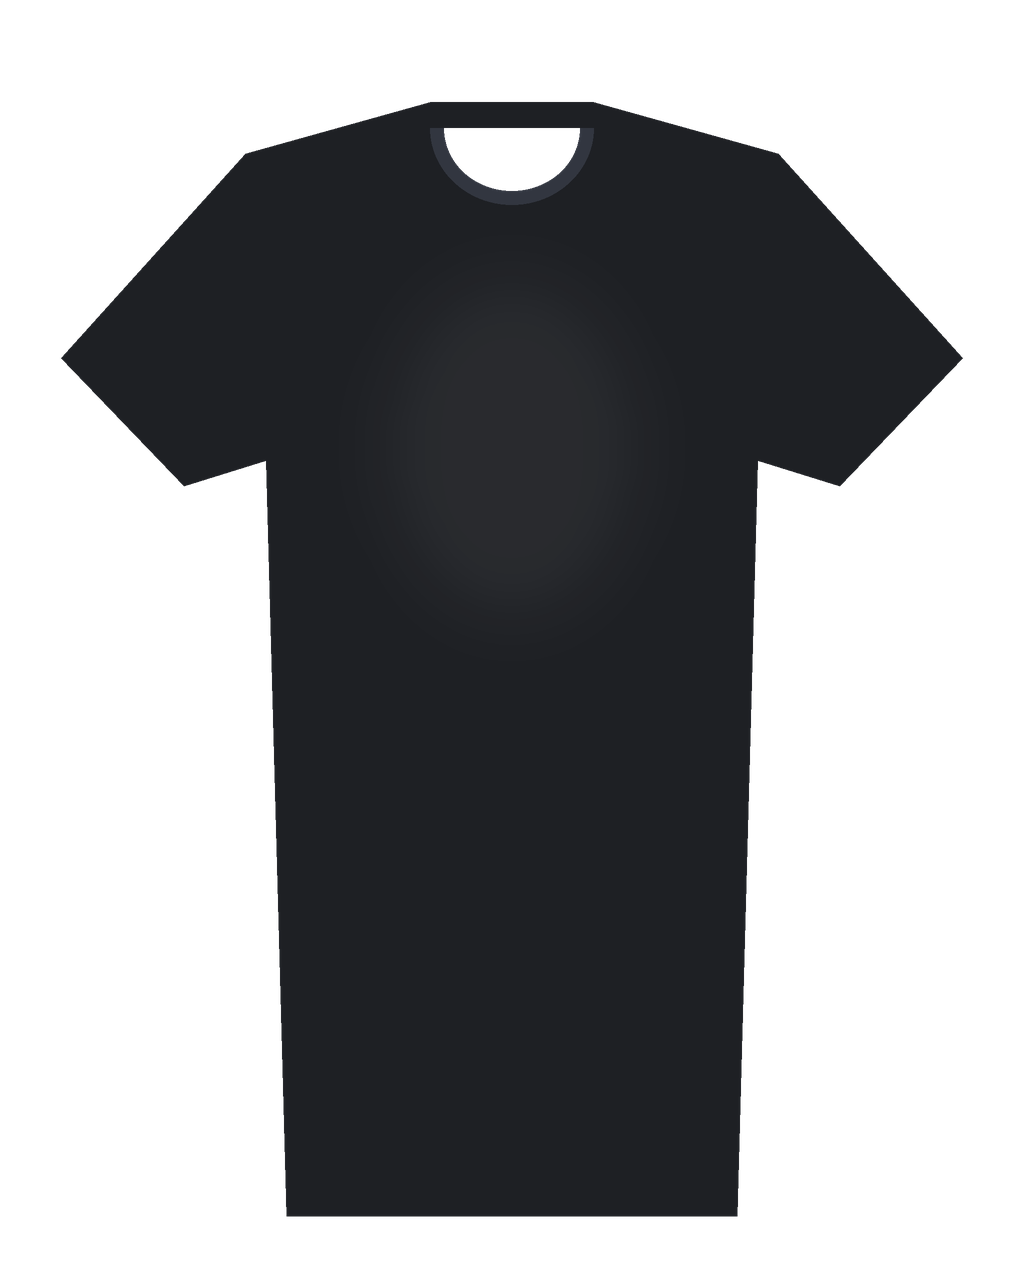
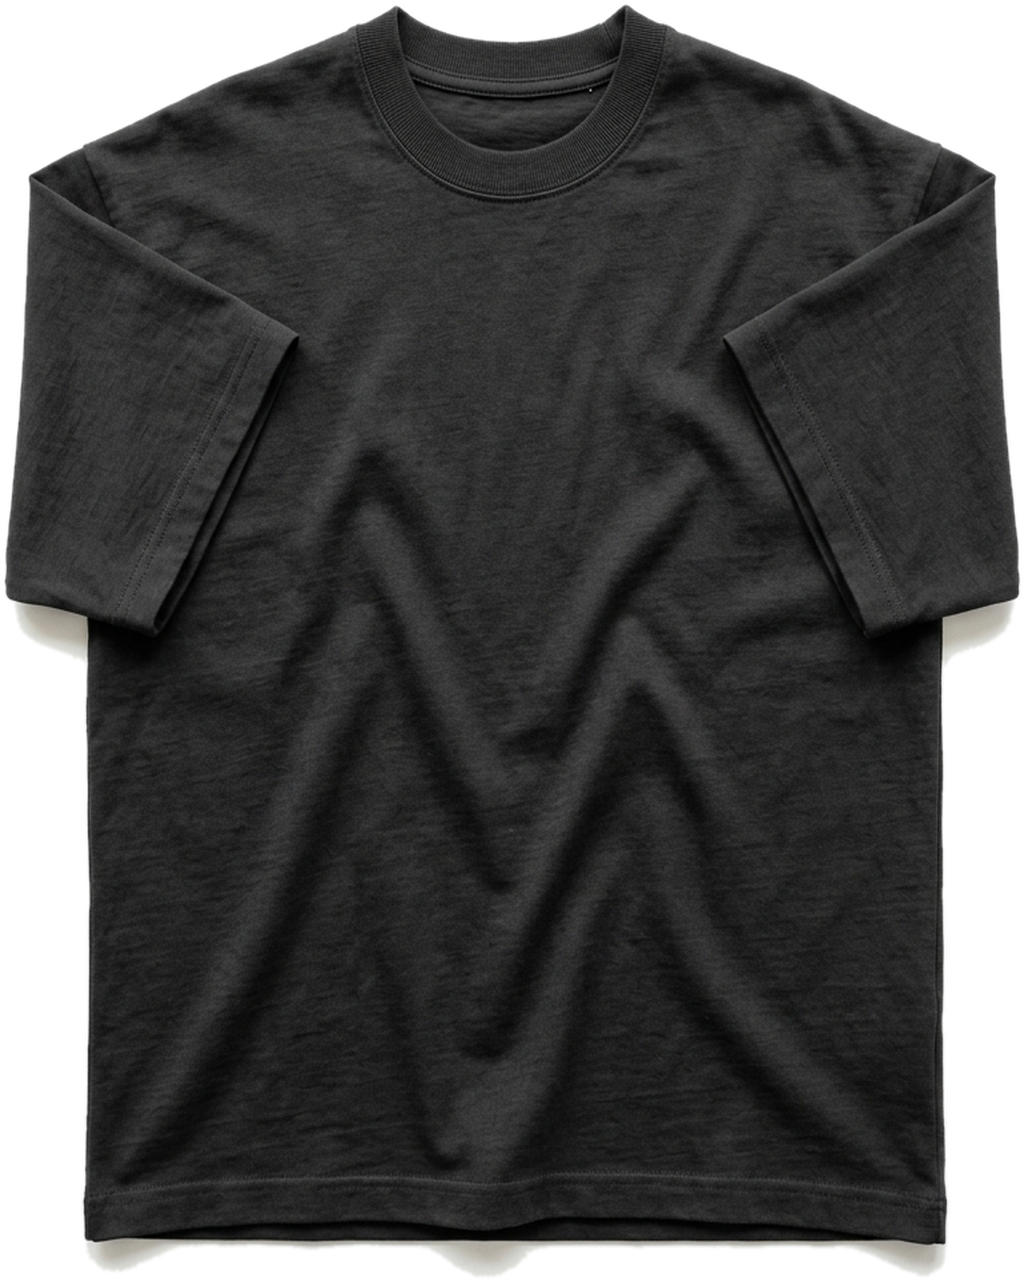
feat(tryon): upgrade to photorealistic 3D textured deformable garment mesh

diff --git a/packages/widget/src/render/three-tryon-renderer.ts b/packages/widget/src/render/three-tryon-renderer.ts
@@ -10,21 +10,22 @@ export class ThreeTryonRenderer {
   private width = 640;
   private height = 480;
 
-  // 3D Garment Group
+  // 3D Garment Mesh & Material
   private garmentGroup: THREE.Group;
-  private torsoMesh: THREE.Mesh | null = null;
-  private shoulderYokeMesh: THREE.Mesh | null = null;
-  private leftSleeveMesh: THREE.Mesh | null = null;
-  private rightSleeveMesh: THREE.Mesh | null = null;
-  private collarMesh: THREE.Mesh | null = null;
+  private garmentMesh: THREE.Mesh | null = null;
+  private garmentGeometry: THREE.PlaneGeometry | null = null;
+  private garmentTexture: THREE.Texture | null = null;
   private fabricMaterial: THREE.MeshStandardMaterial;
+
+  private readonly gridCols = 32;
+  private readonly gridRows = 40;
 
   constructor(canvas: HTMLCanvasElement) {
     this.canvas = canvas;
     this.width = canvas.width || 640;
     this.height = canvas.height || 480;
 
-    // 1. WebGL Renderer with full alpha transparency so camera video underneath shines through
+    // 1. WebGL Renderer with alpha transparency so live camera shines through underneath
     this.renderer = new THREE.WebGLRenderer({
       canvas: this.canvas,
       antialias: true,
@@ -33,7 +34,7 @@ export class ThreeTryonRenderer {
     });
     this.renderer.setSize(this.width, this.height, false);
     this.renderer.setPixelRatio(Math.min(window.devicePixelRatio, 2));
-    this.renderer.setClearColor(0x000000, 0); // 100% transparent background
+    this.renderer.setClearColor(0x000000, 0);
 
     // 2. Pixel-Space Orthographic Camera (center at 0, 0)
     this.scene = new THREE.Scene();
@@ -49,24 +50,34 @@ export class ThreeTryonRenderer {
     this.camera.lookAt(0, 0, 0);
 
     // 3. Editorial Studio Lighting for 3D Fabric Volume & Folds
-    const ambient = new THREE.AmbientLight(0xffffff, 1.2);
+    const ambient = new THREE.AmbientLight(0xffffff, 1.3);
     this.scene.add(ambient);
 
     // Key light: angled from front-right above to highlight chest curvature and collar
-    const keyLight = new THREE.DirectionalLight(0xffffff, 0.85);
-    keyLight.position.set(150, 250, 300);
+    const keyLight = new THREE.DirectionalLight(0xffffff, 0.7);
+    keyLight.position.set(100, 200, 300);
     this.scene.add(keyLight);
 
-    // Fill light: soft fill from left
-    const fillLight = new THREE.DirectionalLight(0xf0ede6, 0.45);
-    fillLight.position.set(-150, -80, 200);
+    // Soft fill from opposite side
+    const fillLight = new THREE.DirectionalLight(0xf5f3ee, 0.4);
+    fillLight.position.set(-100, -50, 200);
     this.scene.add(fillLight);
 
-    // 4. Heavyweight Matte Cotton PBR Material
+    // 4. Load the Photorealistic Editorial Garment Texture
+    const textureLoader = new THREE.TextureLoader();
+    this.garmentTexture = textureLoader.load('/fixtures/sample-tshirt.png');
+    this.garmentTexture.colorSpace = THREE.SRGBColorSpace;
+    this.garmentTexture.generateMipmaps = true;
+    this.garmentTexture.minFilter = THREE.LinearMipmapLinearFilter;
+    this.garmentTexture.magFilter = THREE.LinearFilter;
+
+    // 5. Heavyweight Matte Cotton Material with PBR Lighting
     this.fabricMaterial = new THREE.MeshStandardMaterial({
-      color: 0x232427, // Editorial Deep Charcoal
-      roughness: 0.86,
-      metalness: 0.03,
+      map: this.garmentTexture,
+      transparent: true,
+      alphaTest: 0.05,
+      roughness: 0.88,
+      metalness: 0.02,
       side: THREE.DoubleSide
     });
 
@@ -77,41 +88,10 @@ export class ThreeTryonRenderer {
   }
 
   private build3DGarment(): void {
-    // 1. Main Torso (Chest down to hips): 3D curved elliptical volume
-    const torsoGeom = new THREE.CylinderGeometry(0.5, 0.48, 1.0, 36, 16, false);
-    torsoGeom.scale(1.0, 1.0, 0.58);
-    this.torsoMesh = new THREE.Mesh(torsoGeom, this.fabricMaterial);
-    this.garmentGroup.add(this.torsoMesh);
-
-    // 2. Shoulder Yoke: solid curved volume covering clavicles, shoulder line & trapezius
-    // This ensures NO gaps on top of shoulders, completely concealing underlying shirts/collars
-    const yokeGeom = new THREE.SphereGeometry(0.5, 32, 16);
-    yokeGeom.scale(1.0, 0.35, 0.55);
-    this.shoulderYokeMesh = new THREE.Mesh(yokeGeom, this.fabricMaterial);
-    this.garmentGroup.add(this.shoulderYokeMesh);
-
-    // 3. Left Sleeve: 3D tapered cylinder with volume
-    const sleeveGeomL = new THREE.CylinderGeometry(0.24, 0.19, 1.0, 24, 8, false);
-    sleeveGeomL.scale(1.0, 1.0, 0.75);
-    this.leftSleeveMesh = new THREE.Mesh(sleeveGeomL, this.fabricMaterial);
-    this.garmentGroup.add(this.leftSleeveMesh);
-
-    // 4. Right Sleeve: 3D tapered cylinder with volume
-    const sleeveGeomR = new THREE.CylinderGeometry(0.24, 0.19, 1.0, 24, 8, false);
-    sleeveGeomR.scale(1.0, 1.0, 0.75);
-    this.rightSleeveMesh = new THREE.Mesh(sleeveGeomR, this.fabricMaterial);
-    this.garmentGroup.add(this.rightSleeveMesh);
-
-    // 5. Ribbed Crewneck Collar: raised torus sitting snugly around base of throat
-    const collarGeom = new THREE.TorusGeometry(0.22, 0.042, 16, 40);
-    const collarMat = new THREE.MeshStandardMaterial({
-      color: 0x1f2022,
-      roughness: 0.92,
-      metalness: 0.02
-    });
-    this.collarMesh = new THREE.Mesh(collarGeom, collarMat);
-    this.collarMesh.rotation.x = Math.PI / 2;
-    this.garmentGroup.add(this.collarMesh);
+    // 32 x 40 grid mesh allowing smooth 3D organic skinning across chest, sleeves, and collar
+    this.garmentGeometry = new THREE.PlaneGeometry(1, 1, this.gridCols, this.gridRows);
+    this.garmentMesh = new THREE.Mesh(this.garmentGeometry, this.fabricMaterial);
+    this.garmentGroup.add(this.garmentMesh);
   }
 
   public resize(width: number, height: number): void {
@@ -139,7 +119,7 @@ export class ThreeTryonRenderer {
   }
 
   public update3DPose(rig: TorsoRigState | null, opacity = 1.0): void {
-    if (!rig || opacity <= 0.01) {
+    if (!rig || opacity <= 0.01 || !this.garmentGeometry) {
       this.garmentGroup.visible = false;
       return;
     }
@@ -156,6 +136,7 @@ export class ThreeTryonRenderer {
     const shMid_x = this.toPixelX(rig.shoulderMid[0]);
     const shMid_y = this.toPixelY(rig.shoulderMid[1]);
 
+    // Position collar at base of throat to mask underlying shirts/collars
     const neck_x = this.toPixelX(rig.neckBase[0]);
     const neck_y = this.toPixelY(rig.neckBase[1]);
 
@@ -168,81 +149,132 @@ export class ThreeTryonRenderer {
     const elbR_x = this.toPixelX(rig.elbowRight[0]);
     const elbR_y = this.toPixelY(rig.elbowRight[1]);
 
-    const shWidth = Math.hypot(shR_x - shL_x, shR_y - shL_y);
-    const torsoHeight = Math.hypot(hip_x - shMid_x, hip_y - shMid_y);
+    const shDx = shR_x - shL_x;
+    const shDy = shR_y - shL_y;
+    const shWidth = Math.hypot(shDx, shDy);
 
-    const torsoAngle = Math.atan2(hip_y - shMid_y, hip_x - shMid_x) + Math.PI / 2;
+    const shUnitX = shDx / (shWidth || 1);
+    const shUnitY = shDy / (shWidth || 1);
+
+    // Spine vector (from neck down to hips)
+    const spineDx = hip_x - neck_x;
+    const spineDy = hip_y - neck_y;
+    const spineLen = Math.hypot(spineDx, spineDy);
+    const spineUnitX = spineDx / (spineLen || 1);
+    const spineUnitY = spineDy / (spineLen || 1);
+
+    // Left and right arm vectors (shoulder to elbow)
+    const armL_dx = elbL_x - shL_x;
+    const armL_dy = elbL_y - shL_y;
+    const armL_len = Math.hypot(armL_dx, armL_dy);
+    const armL_unitX = armL_dx / (armL_len || 1);
+    const armL_unitY = armL_dy / (armL_len || 1);
+
+    const armR_dx = elbR_x - shR_x;
+    const armR_dy = elbR_y - shR_y;
+    const armR_len = Math.hypot(armR_dx, armR_dy);
+    const armR_unitX = armR_dx / (armR_len || 1);
+    const armR_unitY = armR_dy / (armR_len || 1);
+
     const yawRad = (rig.estimatedYawDeg * Math.PI) / 180;
+    const cosYaw = Math.cos(yawRad);
+    const sinYaw = Math.sin(yawRad);
 
-    // 1. Torso Mesh: 3D curved elliptical cylinder spanning chest to hips
-    if (this.torsoMesh) {
-      const torsoCenterX = (shMid_x + hip_x) * 0.5;
-      const torsoCenterY = (neck_y + hip_y) * 0.5;
+    const posAttr = this.garmentGeometry.attributes.position;
+    const cols = this.gridCols;
+    const rows = this.gridRows;
 
-      this.torsoMesh.position.set(torsoCenterX, torsoCenterY, 30);
+    // Torso center for 3D yaw pivot
+    const centerX = (shMid_x + hip_x) * 0.5;
+    const centerY = (neck_y + hip_y) * 0.5;
 
-      const tWidth = shWidth * 1.22;
-      const tHeight = Math.max(torsoHeight * 1.28, shWidth * 1.35);
-      const tDepth = shWidth * 0.56;
-      this.torsoMesh.scale.set(tWidth, tHeight, tDepth);
+    // Deform the 3D surface vertices according to the body rig
+    let vIdx = 0;
+    for (let r = 0; r <= rows; r++) {
+      const v = r / rows; // 0 = collar/shoulders, 1 = hem
 
-      this.torsoMesh.rotation.set(0, yawRad, torsoAngle);
+      // Base spine anchor at height fraction v
+      const torsoYLen = Math.max(spineLen * 1.25, shWidth * 1.35);
+      const curSpineX = neck_x + spineUnitX * (v * torsoYLen);
+      const curSpineY = neck_y + spineUnitY * (v * torsoYLen);
+
+      // Torso half-width at this height (editorial boxy cut)
+      const halfWidth = (shWidth * 0.5) * 1.22;
+
+      for (let c = 0; c <= cols; c++) {
+        const u = c / cols; // 0 = left sleeve, 0.5 = center, 1 = right sleeve
+
+        let px: number;
+        let py: number;
+
+        if (u < 0.22) {
+          // --- Left Sleeve ---
+          // Fraction along the sleeve from shoulder seam to cuff
+          const tSleeve = (0.22 - u) / 0.22; // 0 at shoulder, 1 at cuff
+          const sleeveReach = Math.max(armL_len * 0.72, shWidth * 0.55);
+
+          // Position along left arm vector
+          const alongArmX = shL_x + armL_unitX * (tSleeve * sleeveReach);
+          const alongArmY = shL_y + armL_unitY * (tSleeve * sleeveReach);
+
+          // Sleeve thickness perpendicular to arm
+          const sleevePerpX = -armL_unitY;
+          const sleevePerpY = armL_unitX;
+          const sleeveWidth = shWidth * 0.38 * (1.0 - tSleeve * 0.15);
+          const sleeveOffset = (v - 0.25) * sleeveWidth;
+
+          px = alongArmX + sleevePerpX * sleeveOffset;
+          py = alongArmY + sleevePerpY * sleeveOffset;
+        } else if (u > 0.78) {
+          // --- Right Sleeve ---
+          const tSleeve = (u - 0.78) / 0.22; // 0 at shoulder, 1 at cuff
+          const sleeveReach = Math.max(armR_len * 0.72, shWidth * 0.55);
+
+          const alongArmX = shR_x + armR_unitX * (tSleeve * sleeveReach);
+          const alongArmY = shR_y + armR_unitY * (tSleeve * sleeveReach);
+
+          const sleevePerpX = armR_unitY;
+          const sleevePerpY = -armR_unitX;
+          const sleeveWidth = shWidth * 0.38 * (1.0 - tSleeve * 0.15);
+          const sleeveOffset = (v - 0.25) * sleeveWidth;
+
+          px = alongArmX + sleevePerpX * sleeveOffset;
+          py = alongArmY + sleevePerpY * sleeveOffset;
+        } else {
+          // --- Main Torso & Shoulders ---
+          // Normalized horizontal position across torso: -1 (left) to +1 (right)
+          const s = (u - 0.5) / 0.28; // in [-1..1]
+          px = curSpineX + shUnitX * (s * halfWidth);
+          py = curSpineY + shUnitY * (s * halfWidth);
+
+          // Shoulder slope at top row (clavicle line connecting neck to shoulder joints)
+          if (v < 0.2) {
+            const slopeFactor = (0.2 - v) / 0.2;
+            const trapSlope = Math.abs(s) * (shWidth * 0.12) * slopeFactor;
+            px += spineUnitX * trapSlope;
+            py += spineUnitY * trapSlope;
+          }
+        }
+
+        // --- 3D Depth (Z-axis) & Chest Volume Curvature ---
+        // Chest profile curves outward along +Z (peaks around mid-chest, v ~ 0.35)
+        const vChest = Math.sin(Math.min(v * 1.8, 1.0) * Math.PI);
+        // Lateral curve: peaks at center u = 0.5, wraps around ribcage at sides
+        const uCurvature = Math.cos((u - 0.5) * Math.PI);
+        const depthZ = (shWidth * 0.24) * vChest * Math.max(uCurvature, 0);
+
+        // --- 3D Yaw Rotation around Torso Spine Axis ---
+        const relX = px - centerX;
+        const rotatedX = centerX + relX * cosYaw - depthZ * sinYaw;
+        const rotatedZ = relX * sinYaw + depthZ * cosYaw + 40; // in front of camera feed
+
+        posAttr.setXYZ(vIdx, rotatedX, py, rotatedZ);
+        vIdx++;
+      }
     }
 
-    // 2. Shoulder Yoke: sits right across the clavicles/trapezius to cover underlying collar & shirts
-    if (this.shoulderYokeMesh) {
-      const yokeX = (shMid_x + neck_x) * 0.5;
-      const yokeY = (shMid_y + neck_y) * 0.5;
-
-      this.shoulderYokeMesh.position.set(yokeX, yokeY, 35);
-      const yokeWidth = shWidth * 1.32;
-      const yokeHeight = shWidth * 0.42;
-      const yokeDepth = shWidth * 0.58;
-      this.shoulderYokeMesh.scale.set(yokeWidth, yokeHeight, yokeDepth);
-      this.shoulderYokeMesh.rotation.set(0, yawRad, torsoAngle);
-    }
-
-    // 3. Crewneck Collar: sits high around the suprasternal notch & base of throat
-    if (this.collarMesh) {
-      this.collarMesh.position.set(neck_x, neck_y, 45);
-      const collarRadius = shWidth * 0.72;
-      this.collarMesh.scale.set(collarRadius, collarRadius * 0.68, collarRadius);
-      this.collarMesh.rotation.set(Math.PI / 2 - 0.12, yawRad, torsoAngle);
-    }
-
-    // 4. Left Sleeve: connects screen-left shoulder to elbow
-    if (this.leftSleeveMesh) {
-      const armDx = elbL_x - shL_x;
-      const armDy = elbL_y - shL_y;
-      const armLen = Math.hypot(armDx, armDy);
-      const armAngle = Math.atan2(armDy, armDx) + Math.PI / 2;
-
-      const sleeveLength = Math.max(armLen * 0.68, shWidth * 0.58);
-      const sleeveCenterX = shL_x + armDx * 0.35;
-      const sleeveCenterY = shL_y + armDy * 0.35;
-
-      this.leftSleeveMesh.position.set(sleeveCenterX, sleeveCenterY, 32);
-      const sleeveRadius = shWidth * 0.42;
-      this.leftSleeveMesh.scale.set(sleeveRadius, sleeveLength, sleeveRadius * 0.76);
-      this.leftSleeveMesh.rotation.set(0, yawRad, armAngle);
-    }
-
-    // 5. Right Sleeve: connects screen-right shoulder to elbow
-    if (this.rightSleeveMesh) {
-      const armDx = elbR_x - shR_x;
-      const armDy = elbR_y - shR_y;
-      const armLen = Math.hypot(armDx, armDy);
-      const armAngle = Math.atan2(armDy, armDx) + Math.PI / 2;
-
-      const sleeveLength = Math.max(armLen * 0.68, shWidth * 0.58);
-      const sleeveCenterX = shR_x + armDx * 0.35;
-      const sleeveCenterY = shR_y + armDy * 0.35;
-
-      this.rightSleeveMesh.position.set(sleeveCenterX, sleeveCenterY, 32);
-      const sleeveRadius = shWidth * 0.42;
-      this.rightSleeveMesh.scale.set(sleeveRadius, sleeveLength, sleeveRadius * 0.76);
-      this.rightSleeveMesh.rotation.set(0, yawRad, armAngle);
-    }
+    posAttr.needsUpdate = true;
+    this.garmentGeometry.computeVertexNormals();
 
     this.fabricMaterial.opacity = opacity;
     this.fabricMaterial.transparent = opacity < 0.99;
@@ -255,5 +287,7 @@ export class ThreeTryonRenderer {
   public dispose(): void {
     this.renderer.dispose();
     this.fabricMaterial.dispose();
+    this.garmentTexture?.dispose();
+    this.garmentGeometry?.dispose();
   }
 }
